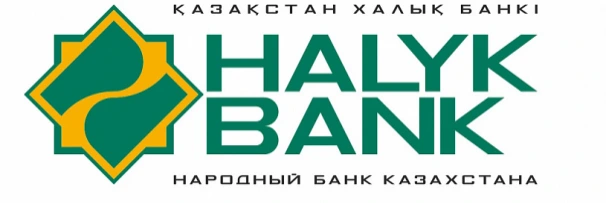
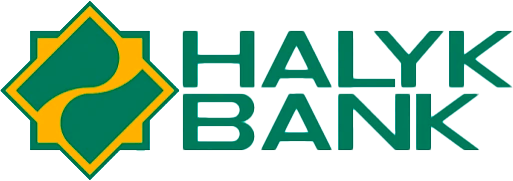
Улучшено расположение логотипов банков и заменено изображение DAMU

diff --git a/styles/main.css b/styles/main.css
@@ -1683,23 +1683,34 @@ section {
 }
 
 .partners-grid {
-    display: flex;
-    justify-content: center;
-    align-items: center;
-    gap: 0;
-    flex-wrap: nowrap;
+    display: grid;
+    grid-template-columns: repeat(3, 1fr);
+    gap: 2rem;
     width: 100%;
-    max-width: 1400px;
+    max-width: 1200px;
     margin: 0 auto;
-    padding: 0 2rem;
-    overflow-x: auto;
+    padding: 2rem;
+    align-items: center;
+    justify-items: center;
 }
 
 .partner-logo {
     width: 140px;
     height: 90px;
     object-fit: contain;
-    flex-shrink: 0;
+    transition: transform 0.3s ease, filter 0.3s ease;
+    filter: grayscale(100%);
+}
+
+.partner-logo:hover {
+    transform: scale(1.05);
+    filter: grayscale(0%);
+}
+
+.partner-logo--large {
+    width: 180px;
+    height: 120px;
+    grid-column: span 1;
 }
 
 /* Адаптивность для банков-партнеров */
@@ -1709,73 +1720,60 @@ section {
     }
     
     .partners-grid {
-        justify-content: center;
-        gap: 0;
-        flex-wrap: wrap;
-        overflow-x: visible;
-        padding: 0 1rem;
-        display: grid;
         grid-template-columns: repeat(2, 1fr);
-        grid-template-rows: auto auto auto;
-        gap: 0;
-        max-width: 400px;
-        margin: 0 auto;
+        gap: 1.5rem;
+        padding: 1.5rem;
+        max-width: 500px;
     }
     
     .partner-logo {
         width: 120px;
         height: 80px;
-        flex-shrink: 0;
-        margin: 0 auto;
     }
     
-    /* Последний банк по центру снизу */
-    .partner-logo:last-child {
-        grid-column: 1 / -1;
-        justify-self: center;
+    .partner-logo--large {
+        width: 140px;
+        height: 100px;
     }
 }
 
 @media (max-width: 480px) {
     .partners-grid {
-        justify-content: center;
-        gap: 0;
-        overflow-x: visible;
-        padding: 0 0.5rem;
-        flex-wrap: wrap;
         grid-template-columns: repeat(2, 1fr);
-        grid-template-rows: auto auto auto;
-        gap: 0;
+        gap: 1rem;
+        padding: 1rem;
         max-width: 350px;
     }
     
     .partner-logo {
         width: 100px;
         height: 70px;
-        flex-shrink: 0;
-        margin: 0 auto;
     }
     
-    .partner-logo:last-child {
-        grid-column: 1 / -1;
-        justify-self: center;
+    .partner-logo--large {
+        width: 120px;
+        height: 85px;
     }
 }
 
 @media (max-width: 360px) {
     .partners-grid {
-        gap: 1rem;
-        padding: 0 0.25rem;
         grid-template-columns: repeat(2, 1fr);
-        grid-template-rows: auto auto auto;
+        gap: 0.75rem;
+        padding: 0.75rem;
         max-width: 300px;
     }
     
     .partner-logo {
         width: 90px;
         height: 65px;
-        margin: 0 auto;
     }
+    
+    .partner-logo--large {
+        width: 100px;
+        height: 75px;
+    }
+}
     
     .partner-logo:last-child {
         grid-column: 1 / -1;

diff --git a/komek-damu-partner.html b/komek-damu-partner.html
@@ -20,7 +20,7 @@
     <meta property="og:description" content="Зарабатывайте с нами, помогая людям получать выгодные кредиты">
     <meta property="og:type" content="website">
     <meta property="og:url" content="">
-    <meta property="og:image" content="images/logo.svg">
+    <meta property="og:image" content="/Users/aleksandr/WebstormProjects/credit/images/logo white.png">
 </head>
 <body class="page-fade-in">
     <!-- Overlay для переходов между страницами -->
@@ -305,7 +305,7 @@
                                 <img src="banks/baiterek.png" alt="BAITEREK" class="partner-logo__image">
                             </div>
                             <div class="partner-logo">
-                                <img src="banks/damu.png" alt="DAMU" class="partner-logo__image">
+                                <img src="banks/logo_damu.png" alt="DAMU" class="partner-logo__image">
                             </div>
                         </div>
                         <div class="special-offer__rate">
@@ -363,7 +363,7 @@
                     
                     <div class="partner-logo">
                         <div class="partner-logo__icon">
-                            <img src="banks/damu.png" alt="DAMU" class="partner-logo__img">
+                            <img src="banks/logo_damu.png" alt="DAMU" class="partner-logo__img">
                         </div>
                         <span class="partner-logo__name">DAMU</span>
                     </div>
@@ -1021,7 +1021,7 @@
                 <div class="footer__main">
                     <div class="footer__brand">
                         <div class="footer__logo">
-                            <img src="images/logo.svg" alt="Komek Damu" class="footer__logo-image">
+                            <img src="/Users/aleksandr/WebstormProjects/credit/images/logo white.png" alt="Komek Damu" class="footer__logo-image">
                         </div>
                         <p class="footer__description">
                             Надежные финансовые решения для физических лиц и бизнеса. 

diff --git a/index.html b/index.html
@@ -846,8 +846,8 @@
                         <h2 class="section__title">Наши партнёры — лидеры банков Казахстана</h2>
                     </div>
                     <div class="partners-grid">
-                        <img src="banks/baiterek.png" alt="BAITEREK" class="partner-logo">
-                        <img src="banks/damu.png" alt="DAMU" class="partner-logo">
+                        <img src="banks/baiterek.png" alt="BAITEREK" class="partner-logo partner-logo--large">
+                        <img src="banks/logo_damu.png" alt="DAMU" class="partner-logo partner-logo--large">
                         <img src="banks/image.png" alt="ForteBank" class="partner-logo">
                         <img src="banks/alatau.png" alt="Alatau City Bank" class="partner-logo">
                         <img src="banks/image-copy-2.png" alt="centercredit" class="partner-logo">
@@ -1196,7 +1196,7 @@
                 <div class="footer__main">
                     <div class="footer__brand">
                         <div class="footer__logo">
-                            <img src="images/logo.svg" alt="Komek Damu" class="footer__logo-image">
+                            <img src="/Users/aleksandr/WebstormProjects/credit/images/logo white.png" alt="Komek Damu" class="footer__logo-image">
                         </div>
                         <p class="footer__description">
                             Надежные финансовые решения для физических лиц и бизнеса. 

diff --git a/styles/partner.css b/styles/partner.css
@@ -1111,12 +1111,15 @@
 }
 
 .partners-grid {
-    display: flex;
-    justify-content: space-between;
-    align-items: center;
+    display: grid;
+    grid-template-columns: repeat(3, 1fr);
+    gap: 2rem;
     margin-top: 60px;
-    gap: 40px;
-    flex-wrap: wrap;
+    align-items: center;
+    justify-items: center;
+    max-width: 900px;
+    margin-left: auto;
+    margin-right: auto;
 }
 
 .partner-logo {
@@ -1161,9 +1164,10 @@
     }
     
     .partners-grid {
-        justify-content: center;
-        gap: 30px;
+        grid-template-columns: repeat(2, 1fr);
+        gap: 1.5rem;
         margin-top: 40px;
+        max-width: 600px;
     }
     
     .partner-logo {
@@ -1182,8 +1186,9 @@
 
 @media (max-width: 480px) {
     .partners-grid {
-        justify-content: center;
-        gap: 20px;
+        grid-template-columns: repeat(2, 1fr);
+        gap: 1rem;
+        max-width: 400px;
     }
     
     .partner-logo {
